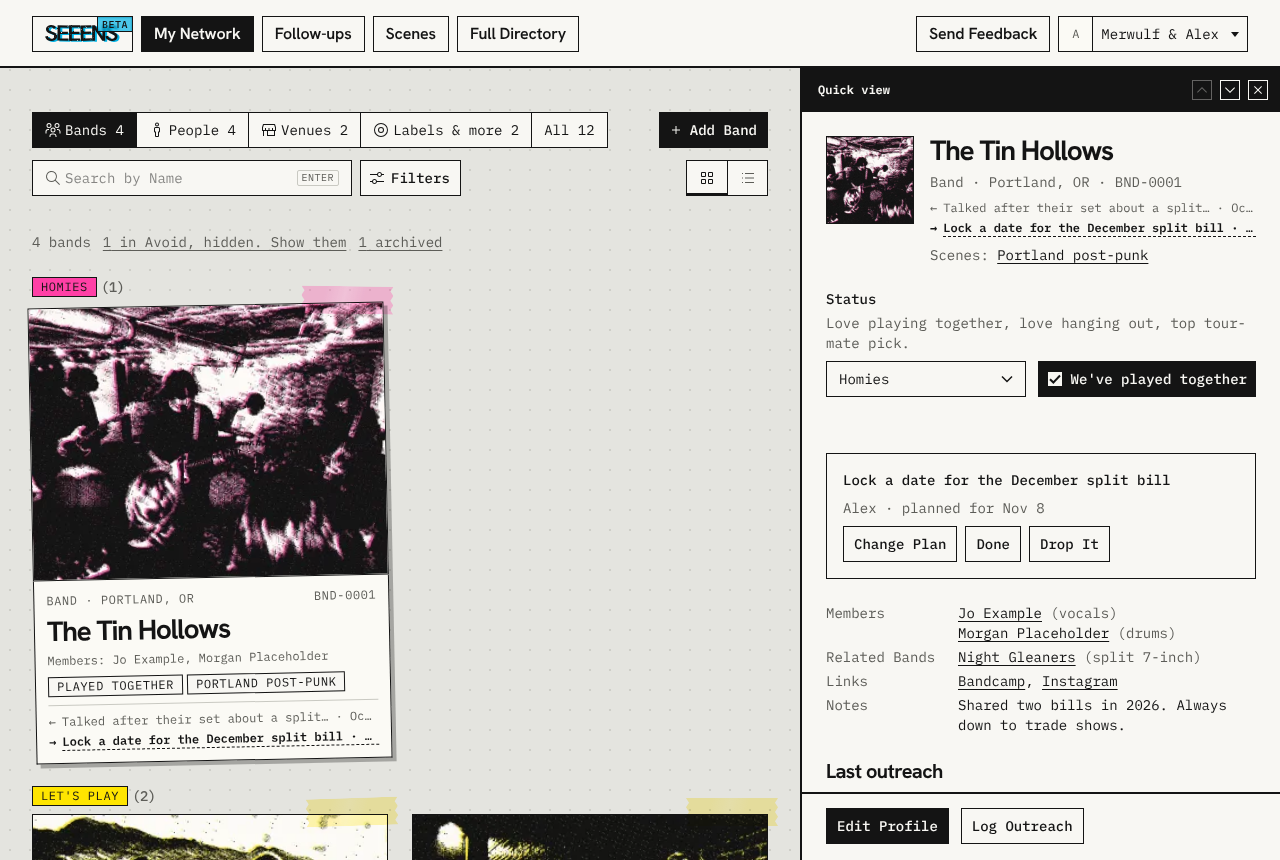
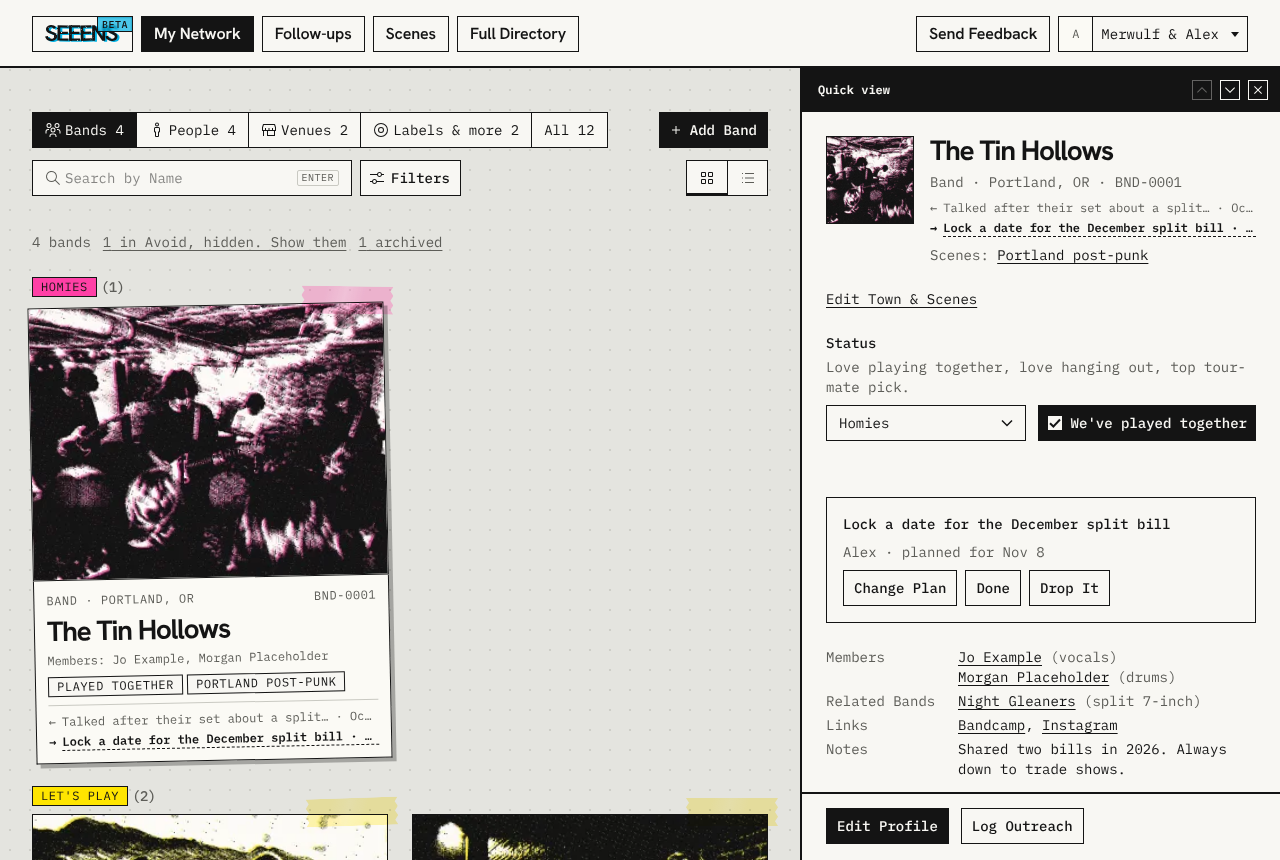
Change photo, town, and scenes from the quick view (#253)
On your band's own listings, the quick view's photo opens the copier,
and Edit Town & Scenes opens the profile's fields, stacked, saving as
you go. Other bands' listings stay read-only here.

Also fixes a new scene showing twice ("Olympia" and "Olympia (new)")
after it saved, on the profile too.

Claude-Session: https://claude.ai/code/session_01SMP6NnyPkRALtU7G1T7uNS

Changed region(s): [[0.625, 0.5442, 0.9688, 0.907], [0.625, 0.3326, 1.0, 0.514]]

diff --git a/src/components/quick-view.tsx b/src/components/quick-view.tsx
@@ -1,6 +1,10 @@
 import Link from "next/link";
 import { getCurrentUser, getMembership } from "@/lib/auth/dal";
-import { getConnection } from "@/lib/connections/queries";
+import { getConnection, toFormValues } from "@/lib/connections/queries";
+import { listSceneOptions } from "@/lib/scenes/queries";
+import { defaultSettings, readSettings } from "@/lib/photos/settings";
+import { PhotoPanel } from "@/components/photo-panel";
+import { QuickPlaceEdit } from "@/components/quick-edit";
 import { linksPanelProps } from "@/lib/affiliations/rows";
 import { SECTION_ORDER } from "@/lib/affiliations/options";
 import { catalogNo, initials } from "@/lib/connections/card";
@@ -25,6 +29,8 @@ export async function QuickView({ params }: { params: Promise<{ id: string }> })
   const { id } = await params;
   const [detail, user] = await Promise.all([getConnection(id), getCurrentUser()]);
   const { connection: c, nextAction } = detail;
+  // Your band's own listing: photo, town, and scenes change right here.
+  const sceneOptions = detail.mine ? await listSceneOptions() : [];
   const today = todayISO(new Date(), membership.timeZone);
   const place = formatLocality(c.localities);
   const lastEntry = detail.outreach[0];
@@ -33,10 +39,26 @@ export async function QuickView({ params }: { params: Promise<{ id: string }> })
     <>
       <div className="quick-view-body">
         <header className="flex items-start gap-4">
-          <span className="quick-view-thumb" aria-hidden="true">
-            <span className="row-thumb-initials">{initials(c.name)}</span>
-            {c.photo_path ? <Photo src={photoUrl(c.photo_path, 320)!} alt="" decoding="async" /> : null}
-          </span>
+          {detail.mine ? (
+            <PhotoPanel
+              key={c.id}
+              connectionId={c.id}
+              workspaceId={membership.workspaceId}
+              name={c.name}
+              photoUrl={photoUrl(c.photo_path, 320)}
+              originalUrl={photoUrl(c.photo_original_path)}
+              photoPath={c.photo_path}
+              originalPath={c.photo_original_path}
+              settings={readSettings(c.photo_settings)}
+              alt={c.photo_alt}
+              defaults={defaultSettings(c.status, c.is_us)}
+            />
+          ) : (
+            <span className="quick-view-thumb" aria-hidden="true">
+              <span className="row-thumb-initials">{initials(c.name)}</span>
+              {c.photo_path ? <Photo src={photoUrl(c.photo_path, 320)!} alt="" decoding="async" /> : null}
+            </span>
+          )}
           <div className="flex min-w-0 flex-1 flex-col gap-2">
             <QuickViewHeading id={c.id}>{c.name}</QuickViewHeading>
             <p className="text-sm text-muted">{[formatType(c), place, catalogNo(c)].filter(Boolean).join(" · ")}</p>
@@ -57,6 +79,10 @@ export async function QuickView({ params }: { params: Promise<{ id: string }> })
             ) : null}
           </div>
         </header>
+
+        {detail.mine ? (
+          <QuickPlaceEdit key={c.id} connectionId={c.id} values={toFormValues(c)} scenes={sceneOptions} />
+        ) : null}
 
         {/* Status, plans, and outreach are about other people, not us. */}
         {c.is_us ? null : (

diff --git a/src/components/profile/basic-info.tsx b/src/components/profile/basic-info.tsx
@@ -130,30 +130,7 @@ export function BasicInfoFields({
         </div>
       ) : null}
 
-      {/* Town and Scenes line up label, hint, and box (.field-pair). */}
-      <div className="field-pair grid gap-5">
-        <PlaceField
-          initialId={v.placeId ? Number(v.placeId) : null}
-          initialLabel={v.placeText}
-          keepLocalityId={v.keepLocalityId || null}
-          error={errors.placeText}
-        />
-        {sharedOnly ? null : (
-          <Combobox
-            label="Scenes (Optional)"
-            hint="Pick any, or type a new one."
-            name="scene_ids"
-            options={orderScenes(scenes).map((s) => ({
-              value: s.id,
-              label: s.name,
-              depth: s.parent_id && scenes.some((p) => p.id === s.parent_id) ? 1 : 0,
-            }))}
-            defaultValue={v.sceneIds}
-            create={{ name: "new_scenes", defaultValue: splitList(v.newScenes), verb: "New Scene" }}
-            error={errors.newScenes}
-          />
-        )}
-      </div>
+      <PlaceAndScenes values={v} scenes={scenes} errors={errors} sharedOnly={sharedOnly} />
 
       {/* Add only. Status is how we relate to others; it doesn't apply to
           us. Hidden, not removed, so the default still submits. */}
@@ -188,6 +165,45 @@ export function BasicInfoFields({
           ) : null}
         </div>
       ) : null}
+    </div>
+  );
+}
+
+/** Town and scenes, lined up (.field-pair). Also in the quick view (#253). */
+export function PlaceAndScenes({
+  values: v,
+  scenes,
+  errors,
+  sharedOnly = false,
+}: {
+  values: ConnectionFormValues;
+  scenes: SceneOption[];
+  errors: ConnectionFormErrors;
+  sharedOnly?: boolean;
+}) {
+  return (
+    <div className="field-pair grid gap-5">
+      <PlaceField
+        initialId={v.placeId ? Number(v.placeId) : null}
+        initialLabel={v.placeText}
+        keepLocalityId={v.keepLocalityId || null}
+        error={errors.placeText}
+      />
+      {sharedOnly ? null : (
+        <Combobox
+          label="Scenes (Optional)"
+          hint="Pick any, or type a new one."
+          name="scene_ids"
+          options={orderScenes(scenes).map((s) => ({
+            value: s.id,
+            label: s.name,
+            depth: s.parent_id && scenes.some((p) => p.id === s.parent_id) ? 1 : 0,
+          }))}
+          defaultValue={v.sceneIds}
+          create={{ name: "new_scenes", defaultValue: splitList(v.newScenes), verb: "New Scene" }}
+          error={errors.newScenes}
+        />
+      )}
     </div>
   );
 }

diff --git a/src/components/quick-edit.tsx b/src/components/quick-edit.tsx
@@ -1,0 +1,47 @@
+"use client";
+
+import { useState } from "react";
+import { AutosaveForm, AutosaveProvider, SaveStatus, useFieldErrors } from "@/components/profile/autosave";
+import { PlaceAndScenes } from "@/components/profile/basic-info";
+import type { ConnectionFormValues } from "@/lib/connections/form";
+
+type SceneOption = { id: string; name: string; parent_id: string | null };
+
+// Town and scenes, edited in the quick view (#253). Closed, it's one link
+// under the header; open, the profile's own fields, saving as you go.
+export function QuickPlaceEdit({
+  connectionId,
+  values,
+  scenes,
+}: {
+  connectionId: string;
+  values: ConnectionFormValues;
+  scenes: SceneOption[];
+}) {
+  const [open, setOpen] = useState(false);
+  if (!open) {
+    return (
+      <button type="button" className="link self-start text-sm" onClick={() => setOpen(true)} aria-expanded="false">
+        Edit Town &amp; Scenes
+      </button>
+    );
+  }
+  return (
+    <AutosaveProvider>
+      <AutosaveForm connectionId={connectionId} className="quick-edit flex flex-col gap-4">
+        <Fields values={values} scenes={scenes} />
+        <div className="flex flex-wrap items-center justify-between gap-3">
+          <SaveStatus />
+          <button type="button" className="button-secondary" onClick={() => setOpen(false)} aria-expanded="true">
+            Done
+          </button>
+        </div>
+      </AutosaveForm>
+    </AutosaveProvider>
+  );
+}
+
+function Fields({ values, scenes }: { values: ConnectionFormValues; scenes: SceneOption[] }) {
+  const errors = useFieldErrors();
+  return <PlaceAndScenes values={values} scenes={scenes} errors={errors} />;
+}

diff --git a/src/app/globals.css b/src/app/globals.css
@@ -2388,6 +2388,13 @@
       width: 4.5rem;
     }
   }
+  /* Your own listing's photo opens the copier, at the quick view's size. */
+  .quick-view .photo-thumb {
+    width: 5.5rem;
+  }
+  .quick-view .photo-thumb-empty .card-print-initials {
+    font-size: 32px;
+  }
   .quick-view-thumb .row-thumb-initials {
     font-size: 32px;
     line-height: 32px;
@@ -2456,6 +2463,11 @@
   }
   .field-pair > * > [id$="-hint"] {
     margin-top: 4px;
+  }
+  /* Town and scenes stack in the quick view; side by side they're cramped. */
+  .quick-edit .field-pair {
+    grid-template-columns: minmax(0, 1fr);
+    row-gap: var(--space-lg);
   }
 }
 

diff --git a/src/components/combobox.tsx b/src/components/combobox.tsx
@@ -72,6 +72,12 @@ export function Combobox({
     setPrevKey(defaultKey);
     setSelected(defaultValue);
     if (keepPick) setQuery(labelOf(defaultValue[0]));
+    // A new one that's been saved comes back as a real option: drop its
+    // "(new)" chip so it isn't shown, or sent, twice.
+    const saved = new Set(
+      defaultValue.map((v) => options.find((o) => o.value === v)?.label.toLowerCase()).filter(Boolean),
+    );
+    setCreated((c) => c.filter((n) => !saved.has(n.toLowerCase())));
   }
 
   const byValue = useMemo(() => new Map(options.map((o) => [o.value, o])), [options]);

diff --git a/README.md b/README.md
@@ -25,7 +25,7 @@ To regenerate them, run `npm run db:reset` and `npm run dev`, then `npm run scre
 | ![Follow-ups grouped by date](docs/screenshots/follow-ups.png) | ![The directory on a phone](docs/screenshots/mobile-directory.png) |
 | **Follow-ups.** Every next step, with dates as plain facts and no overdue alarms. | **On a phone.** The same app, built for the merch table. |
 | ![The directory with The Tin Hollows open in the quick view panel beside it](docs/screenshots/quick-view.png) | ![The Lantern Room's quick view as a sheet on a phone](docs/screenshots/mobile-quick-view.png) |
-| **Quick view.** Click a row and the connection opens beside the list: change status, handle the next step, log outreach. Previous and Next (or J and K) step through the list; 1 to 6 set the status; Esc closes it. | **Quick view on a phone.** The same panel as a sheet under the header. |
+| **Quick view.** Click a row and the connection opens beside the list: change status, handle the next step, log outreach. On your band's own listings, change the photo, town, and scenes there too. Previous and Next (or J and K) step through the list; 1 to 6 set the status; Esc closes it. | **Quick view on a phone.** The same panel as a sheet under the header. |
 | ![Band Settings: band name, members with roles, the invite form, and a pending invite](docs/screenshots/band-settings.png) | ![An invite: "Alex invited you to Merwulf on Seeens" with a form to make an account and join](docs/screenshots/invite.png) |
 | **Band Settings.** Everyone in the band, and invites by email or link. Owners manage roles. | **An invite.** Who invited you, to which band, and that Seeens is in beta. Make an account or sign in, and you're in. |
 | ![Send Feedback: kind, what happened, an optional screenshot, and what's sent with it](docs/screenshots/feedback.png) | ![What You Share: people kept private, bands shared, with Keep Private on each](docs/screenshots/sharing.png) |
